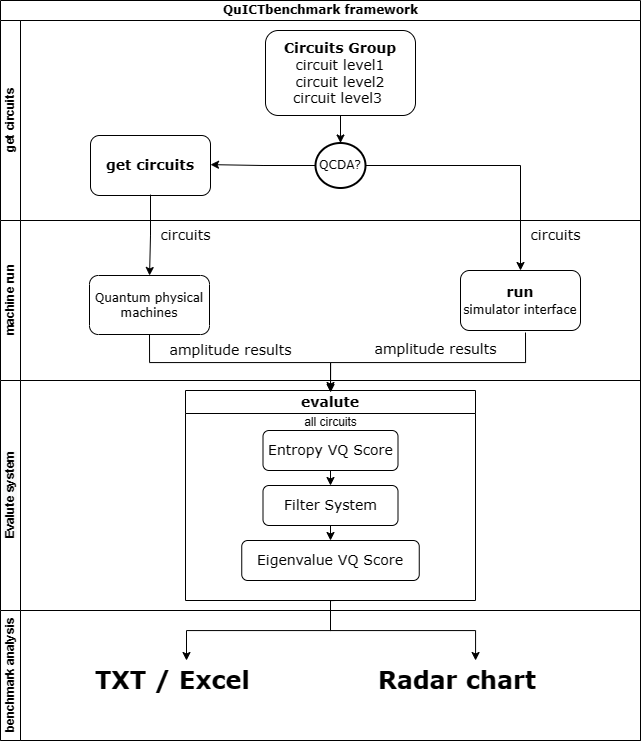
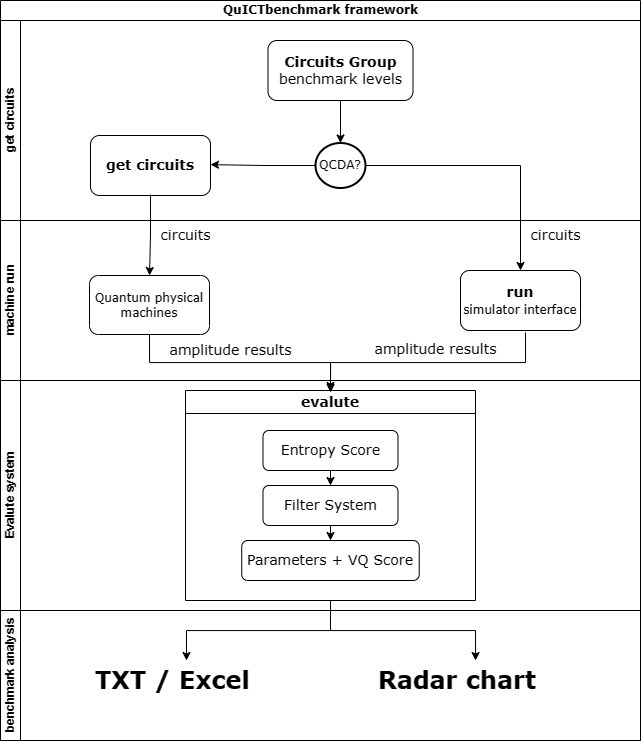
modify framework

Changed region(s): [[0.4056, 0.031, 0.6552, 0.1552], [0.4056, 0.5587, 0.624, 0.6208], [0.3744, 0.7449, 0.6552, 0.776]]

diff --git a/docs/zh/docs/functions/Machinebenchmark.md b/docs/zh/docs/functions/Machinebenchmark.md
@@ -6,7 +6,7 @@
 
 ## 基准测试框架
 
-通过图中框架流程设计可以清晰的观察到基准测试每一步的操作。
+通过下图基准测试框架流程设计可以清晰的观察到基准测试每一步的操作。
 
 ![benchmark framework](../assets/images/functions/Machinebenchmark/benchmark_framework.png)
 
@@ -62,23 +62,23 @@
 
 #### 对特殊基准电路进行指标值分析
 
-!!!  特殊基准电路介绍
+!!!  
+    **特殊基准电路介绍**
+    - 高度并行化电路
+        - 不同量子算法的结构允许不同程度的并行化，通过比较量子门数量，门数和电路深度的比率高度并行的应用将大量运算放入相对较小的电路深度中。
+        - P = （ng / nd -1）/ (nw - 1) 其中ng表示门的总数，nd表示电路深度，nw表示电路宽度，P越接近1的电路并行化程度越高。
 
-- 高度并行化电路
-    - 不同量子算法的结构允许不同程度的并行化，通过比较量子门数量，门数和电路深度的比率高度并行的应用将大量运算放入相对较小的电路深度中。
-    - P = （ng / nd -1）/ (nw - 1) 其中ng表示门的总数，nd表示电路深度，nw表示电路宽度，P越接近1的电路并行化程度越高。
+    - 高度串行化电路
+        - 设置电路深度的最长路径上两个量子位相互作用的数量接近总的双比特数量。
+        - S = 1 - ns / ng 其中ng表示门的总数，ns表示不在最长路径上的双比特门数，S越接近1的电路串行化程度越高。
 
-- 高度串行化电路
-    - 设置电路深度的最长路径上两个量子位相互作用的数量接近总的双比特数量。
-    - S = 1 - ns / ng 其中ng表示门的总数，ns表示不在最长路径上的双比特门数，S越接近1的电路串行化程度越高。
+    - 高度纠缠电路
+        - 通过计算两个量子位相互作用的所有门操作的比例，测试电路种两个量子位相互作用程度。
+        - E = 1 - ne / ng 其中ng表示门的总数，ne表示电路完全纠缠下多余的双比特门数，E越接近1的电路纠缠程度越高。
 
-- 高度纠缠电路
-    - 通过计算两个量子位相互作用的所有门操作的比例，测试电路种两个量子位相互作用程度。
-    - E = 1 - ne / ng 其中ng表示门的总数，ne表示电路完全纠缠下多余的双比特门数，E越接近1的电路纠缠程度越高。
-
-- 中间态测量电路
-    - 对于多个连续层的门操作组成的电路，测量门在不同层数为程序执行期间和之后提取信息
-    - M = md / nd 其中md表示电路中测量门所在的层数，nd表示电路深度，E越接近1的电路测量性能越完整。
+    - 中间态测量电路
+        - 对于多个连续层的门操作组成的电路，测量门在不同层数为程序执行期间和之后提取信息
+        - M = md / nd 其中md表示电路中测量门所在的层数，nd表示电路深度，E越接近1的电路测量性能越完整。
 
 #### 对算法电路进行量子体积分析
 
